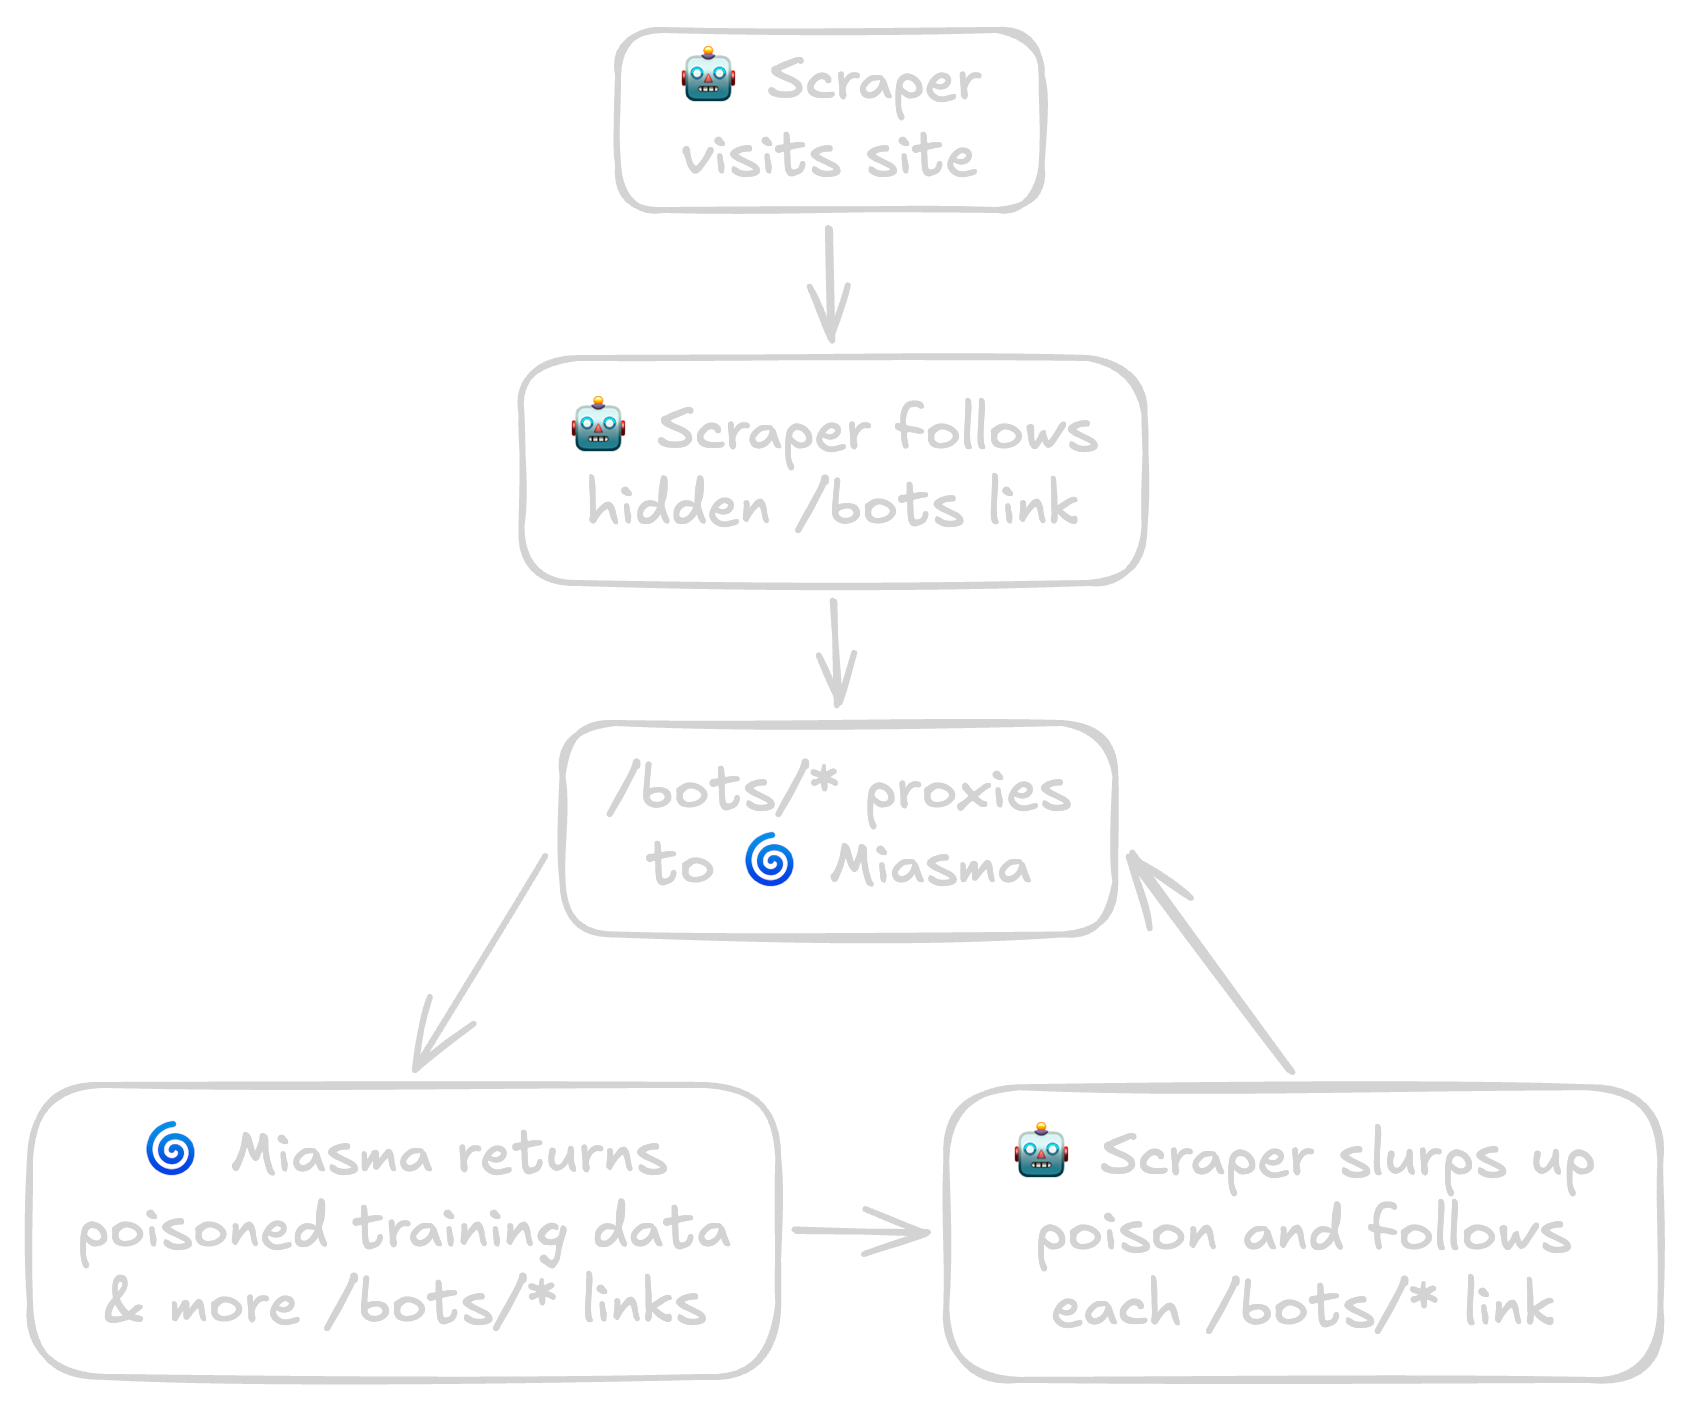
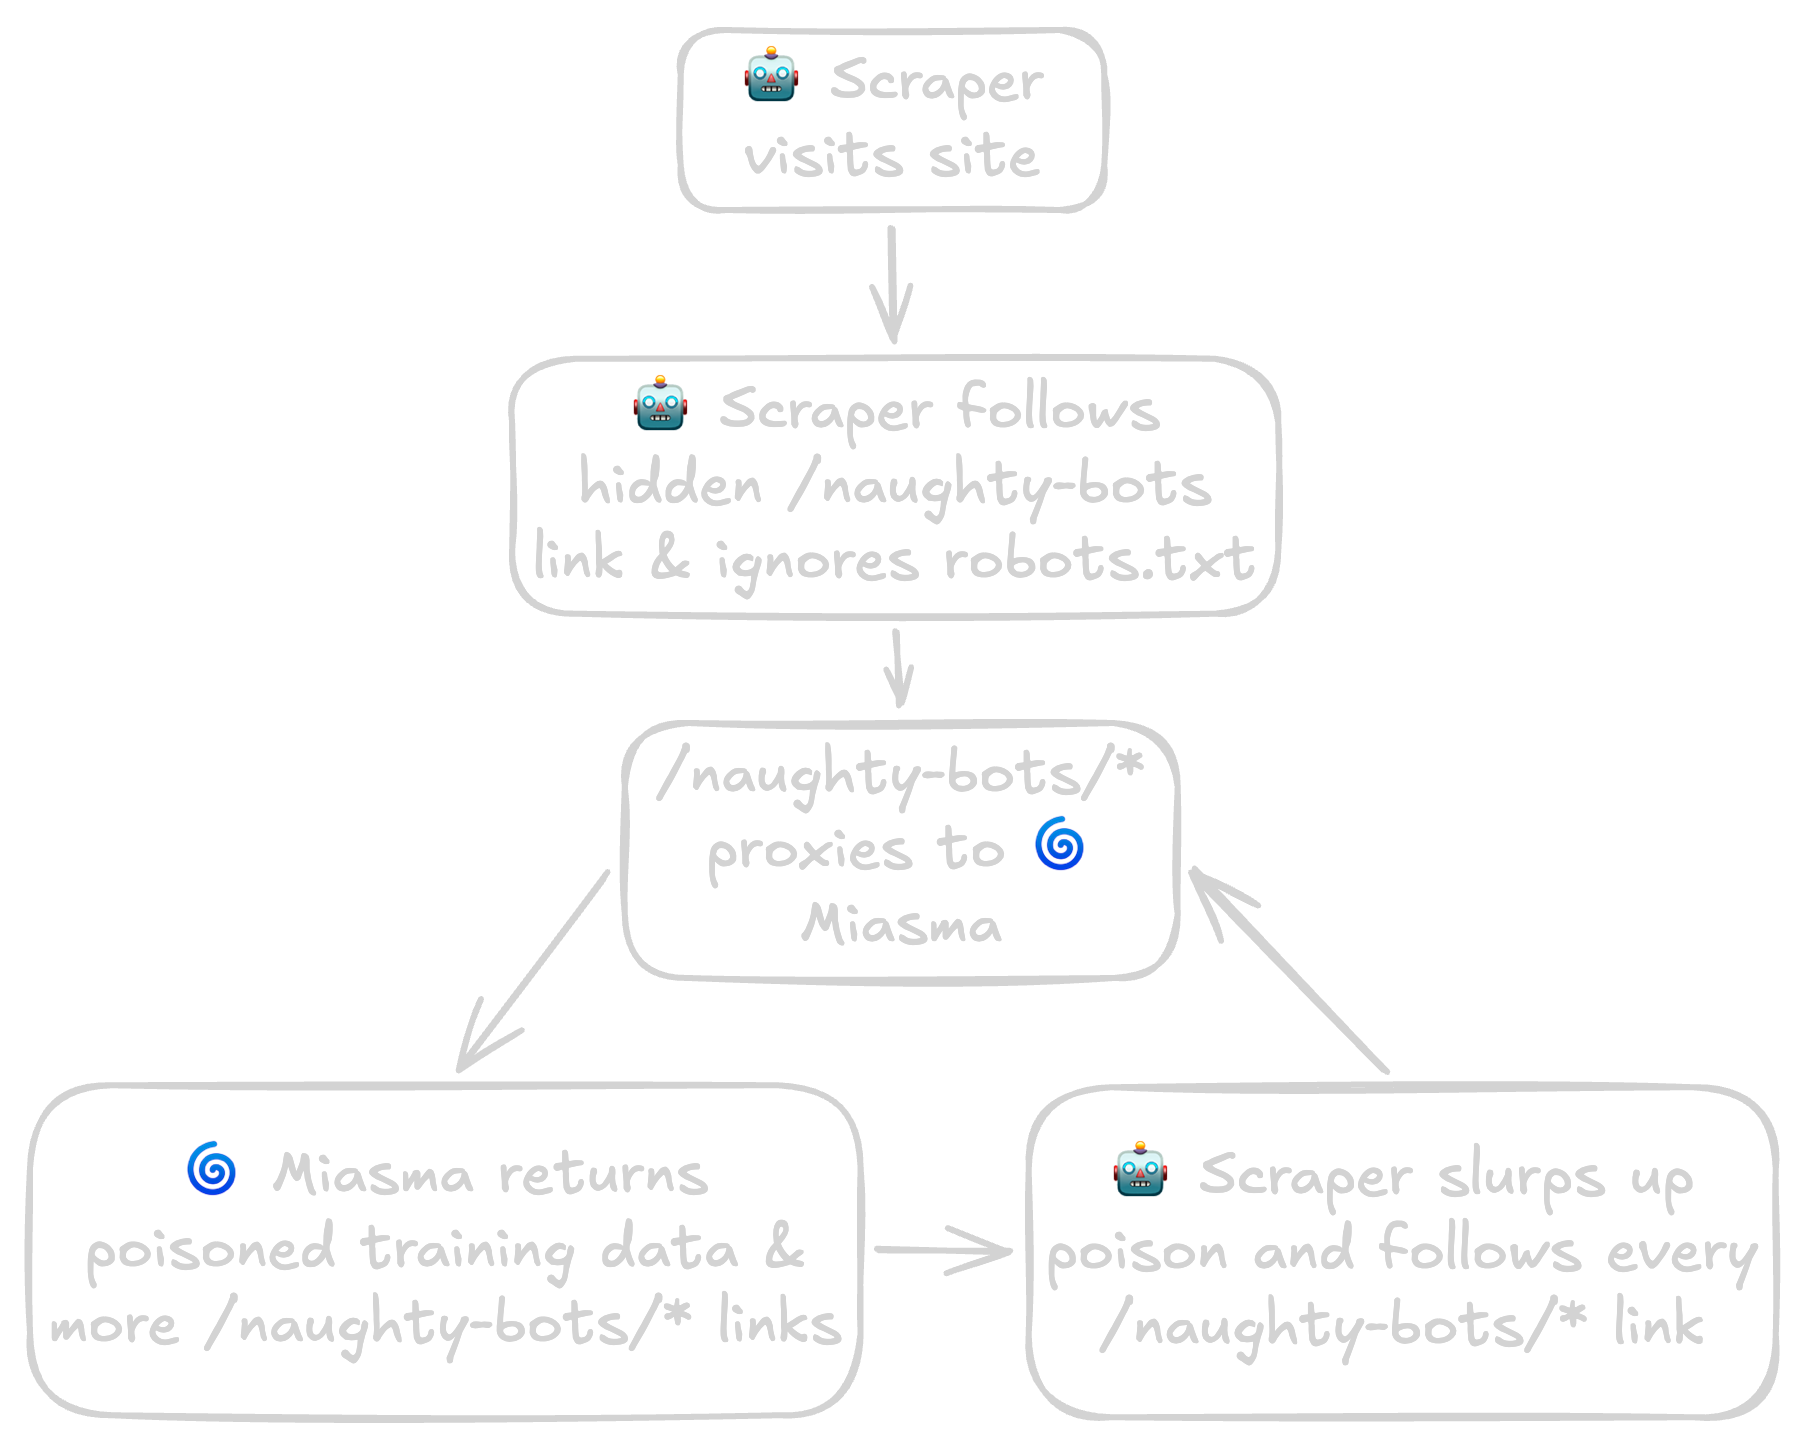
add disclaimer

Changed region(s): [[0.0308, 0.0, 0.9846, 0.9993], [0.5846, 0.9681, 0.6154, 0.9993], [0.0, 0.7807, 0.0308, 0.8119]]

diff --git a/src/main.rs b/src/main.rs
@@ -6,9 +6,6 @@ use miasma::{MiasmaConfig, check_for_new_version, new_miasma_router};
 
 static CONFIG: LazyLock<MiasmaConfig> = LazyLock::new(MiasmaConfig::new);
 
-// TODO: randomize html template content
-// TODO: improve test coverage
-
 fn main() -> anyhow::Result<()> {
     tokio::runtime::Builder::new_multi_thread()
         .enable_all()
@@ -21,16 +18,12 @@ fn main() -> anyhow::Result<()> {
 
             tokio::spawn(check_for_new_version());
 
-            let addr = format!("{}:{}", CONFIG.host, CONFIG.port);
+            let addr = CONFIG.address();
             let listener = tokio::net::TcpListener::bind(&addr)
                 .await
                 .with_context(|| format!("could not bind to {addr}").red())?;
 
-            eprintln!(
-                "Listening on {} with {} max in-flight requests. Serving poisoned training data from {} with {} links per response...",
-                addr.cyan(), CONFIG.max_in_flight.to_string().cyan(),
-                CONFIG.poison_source.to_string().cyan(), CONFIG.link_count.to_string().cyan()
-            );
+            CONFIG.print_config_info();
 
             axum::serve(listener, app)
                 .await

diff --git a/src/config.rs b/src/config.rs
@@ -5,6 +5,7 @@ use std::{
 };
 
 use clap::Parser;
+use colored::Colorize;
 use url::Url;
 
 /// Config object for miasma.
@@ -47,6 +48,31 @@ impl MiasmaConfig {
     #[allow(clippy::new_without_default)]
     pub fn new() -> Self {
         <MiasmaConfig as Parser>::parse()
+    }
+
+    /// Print configuration information to stderr.
+    pub fn print_config_info(&self) {
+        let gzip_msg = if self.force_gzip {
+            format!(" and {}", "forced gzip compression".cyan())
+        } else {
+            "".to_owned()
+        };
+        eprintln!(
+            "Listening on {} with {} max in-flight requests{gzip_msg}...",
+            self.address().cyan(),
+            self.max_in_flight.to_string().cyan()
+        );
+        eprintln!(
+            "Serving data from {} at {} with {} links per response...",
+            self.poison_source.to_string().cyan(),
+            self.link_prefix.to_string().cyan(),
+            self.link_count.to_string().cyan(),
+        );
+    }
+
+    /// Get the full 'host:port' address.
+    pub fn address(&self) -> String {
+        format!("{}:{}", self.host, self.port)
     }
 }
 

diff --git a/README.md b/README.md
@@ -13,12 +13,18 @@ _Miasma_ is here to help you fight back! Spin up the server and point any malici
 
 _Miasma_ is very fast and has a minimal memory footprint - you should not have to waste compute resources fending off the internet's leeches.
 
-<p align="center">
-  <picture>
-    <source media="(prefers-color-scheme: dark)" srcset="https://raw.githubusercontent.com/austin-weeks/miasma/main/.github/images/response-dark.png">
-    <img width="625" src="https://raw.githubusercontent.com/austin-weeks/miasma/main/.github/images/response-light.png" alt="Sample response from Miasma.">
-  </picture>
-</p>
+> [!CAUTION]
+> There is inherent risk in deploying this software. Please fully read [configuration](#configuration) and [disclaimer](#disclaimer) before use.
+
+<details>
+  <summary>Sample <em>Miasma</em> Response</summary>
+  <p align="center">
+    <picture>
+      <source media="(prefers-color-scheme: dark)" srcset="https://raw.githubusercontent.com/austin-weeks/miasma/main/.github/images/response-dark.png">
+      <img width="625" src="https://raw.githubusercontent.com/austin-weeks/miasma/main/.github/images/response-light.png" alt="Sample response from Miasma.">
+    </picture>
+  </p>
+</details>
 
 ## Installation
 
@@ -44,9 +50,9 @@ View all available [configuration options](#configuration):
 miasma --help
 ```
 
-## How to Trap Scrapers
+## How to Trap Malicious Scrapers
 
-Let's walk through an example of setting up a server to trap scrapers with _Miasma_. We'll pick `/bots` as our server's path to direct scraper traffic. We'll be using [_Nginx_](https://nginx.org/) as our server's reverse proxy, but the same result can be achieved with many different setups.
+Let's walk through an example of setting up a server to trap scrapers with _Miasma_. We'll pick `/naughty-bots` as our server's path to direct scraper traffic. We'll be using [_Nginx_](https://nginx.org/) as our server's reverse proxy, but the same result can be achieved with many different setups.
 
 When we're done, scrapers will be trapped like so:
 
@@ -59,41 +65,55 @@ When we're done, scrapers will be trapped like so:
 
 ### Embedding Hidden Links
 
-Within our site, we'll include a few hidden links leading to `/bots`.
+Within our site, we'll include a few hidden links leading to `/naughty-bots`.
 
 ```html
-<a href="/bots" style="display: none;" aria-hidden="true" tabindex="1">
+<a href="/naughty-bots" style="display: none;" aria-hidden="true" tabindex="-1">
   Amazing high quality data here!
 </a>
 ```
 
-The `style="display: none;"`, `aria-hidden="true"`, and `tabindex="1"` attributes ensure links are totally invisible to human visitors and will be ignored by screen readers and keyboard navigation. They will **only** be visible to scrapers.
+The `style="display: none;"`, `aria-hidden="true"`, and `tabindex="-1"` attributes ensure links are totally invisible to human visitors and will be ignored by screen readers and keyboard navigation. They will **only** be visible to scrapers.
 
 ### Configuring our Nginx Proxy
 
-Since our hidden links point to `/bots`, we'll configure this path to proxy _Miasma_. Let's assume we're running _Miasma_ on port `9855`.
+Since our hidden links point to `/naughty-bots`, we'll configure this path to proxy _Miasma_. Let's assume we're running _Miasma_ on port `9855`.
+
+We'll also set up aggressive rate limiting based on the scraper's user agent to help ensure we don't accidentally DDoS ourselves.
 
 ```nginx
-location ~ ^/bots($|/.*)$ {
-  proxy_pass http://localhost:9855;
+http {
+  # Reserve 8MB memory for tracking user agents
+  limit_req_zone $http_user_agent zone=miasma:8m rate=1r/s;
+
+  server {
+    location ~ ^/naughty-bots($|/.*)$ {
+      # Rate limit via the 'miasma' zone with no 429 delay
+      limit_req_status 429;
+      limit_req zone=miasma burst=5 nodelay;
+
+      # Proxy requests to Miasma
+      proxy_pass http://localhost:9855;
+    }
+  }
 }
 ```
 
-This will match all variations of the `/bots` path -> `/bots`, `/bots/`, `/bots/12345`, etc.
+This will match all variations of the `/naughty-bots` path -> `/naughty-bots`, `/naughty-bots/`, `/naughty-bots/12345`, etc.
 
 ### Run _Miasma_
 
-Lastly, we'll start _Miasma_ and specify `/bots` as the link prefix. This instructs _Miasma_ to start links with `/bots/`, which ensures scrapers are properly routed through our _Nginx_ proxy back to _Miasma_.
+Lastly, we'll start _Miasma_ and specify `/naughty-bots` as the link prefix. This instructs _Miasma_ to start links with `/naughty-bots/`, which ensures scrapers are properly routed through our _Nginx_ proxy back to _Miasma_.
 
 We'll also limit the number of max in-flight connections to 50. At 50 connections, we can expect 50-60 MB peak memory usage. Note that any requests exceeding this limit will immediately receive a **429** response rather than being added to a queue.
 
 ```sh
-miasma --link-prefix '/bots' -p 9855 -c 50
+miasma --link-prefix '/naughty-bots' -p 9855 -c 50
 ```
 
 ### Enjoy!
 
-Let's deploy and watch as multi-billion dollar companies greedily eat from our endless slop machine!
+Let's deploy and watch as misbehaving bots greedily eat from our endless slop machine!
 
 <p align="center">
   <picture>
@@ -103,16 +123,11 @@ Let's deploy and watch as multi-billion dollar companies greedily eat from our e
 
 ### `robots.txt`
 
-Be sure to protect friendly bots and search engines from _Miasma_ in your `robots.txt`!
+Be sure to protect well-behaved bots and search engines from _Miasma_ via your [`robots.txt`](https://developers.google.com/search/docs/crawling-indexing/robots/intro)!
 
 ```text
-User-agent: Googlebot
-User-agent: Bingbot
-User-agent: DuckDuckBot
-User-agent: Slurp
-User-agent: SomeOtherNiceBot
-Disallow: /bots
-Allow: /
+User-agent: *
+Disallow: /naughty-bots
 ```
 
 ## Configuration
@@ -124,7 +139,7 @@ _Miasma_ can be configured via its CLI options:
 | `port`          | `9999`                         | The port the server should bind to.                                                                                                                                                                                                                                     |
 | `host`          | `localhost`                    | The host address the server should bind to.                                                                                                                                                                                                                             |
 | `max-in-flight` | `500`                          | Maximum number of allowable in-flight requests. Requests received when in flight is exceeded will receive a _429_ response. **_Miasma's_ memory usage scales directly with the number of in-flight requests - set this to a lower value if memory usage is a concern.** |
-| `link-prefix`   | `/`                            | Prefix for self-directing links. This should be the path where you host _Miasma_, e.g. `/bots`.                                                                                                                                                                         |
+| `link-prefix`   | `/`                            | Prefix for self-directing links. This should be the path where you host _Miasma_, e.g. `/naughty-bots`.                                                                                                                                                                 |
 | `link-count`    | `5`                            | Number of self-directing links to include in each response page.                                                                                                                                                                                                        |
 | `force-gzip`    | `false`                        | Always gzip responses regardless of the client's _Accept-Encoding_ header. **Forcing compression can help reduce egress costs.**                                                                                                                                        |
 | `poison-source` | `https://rnsaffn.com/poison2/` | Proxy source for poisoned training data.                                                                                                                                                                                                                                |
@@ -132,3 +147,9 @@ _Miasma_ can be configured via its CLI options:
 ## Development
 
 Contributions are welcome! Please open an [issue](https://github.com/austin-weeks/miasma/issues) for bugs reports or feature requests. Primarily AI-generated contributions will be automatically rejected.
+
+## Disclaimer
+
+_Miasma_ is not affiliated with [the poison fountain](https://rnsaffn.com/poison3). We have no control over its responses and cannot guarantee the safety of its contents. You should **_never_** direct users towards your _Miasma_ location.
+
+_Miasma_ is not responsible for any retaliation from operators of affected scrapers. It is your responsibility to comply with applicable laws and hosting provider policies. See [LICENSE](LICENSE) (GPL-v3) for full warranty & limitation of liability details.
